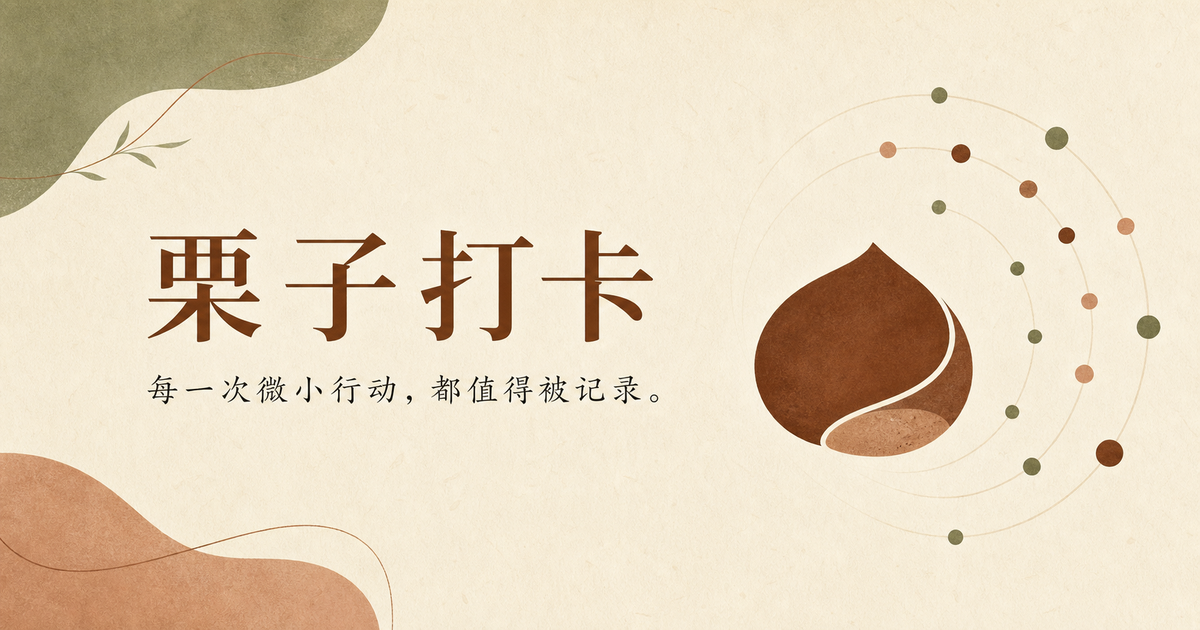
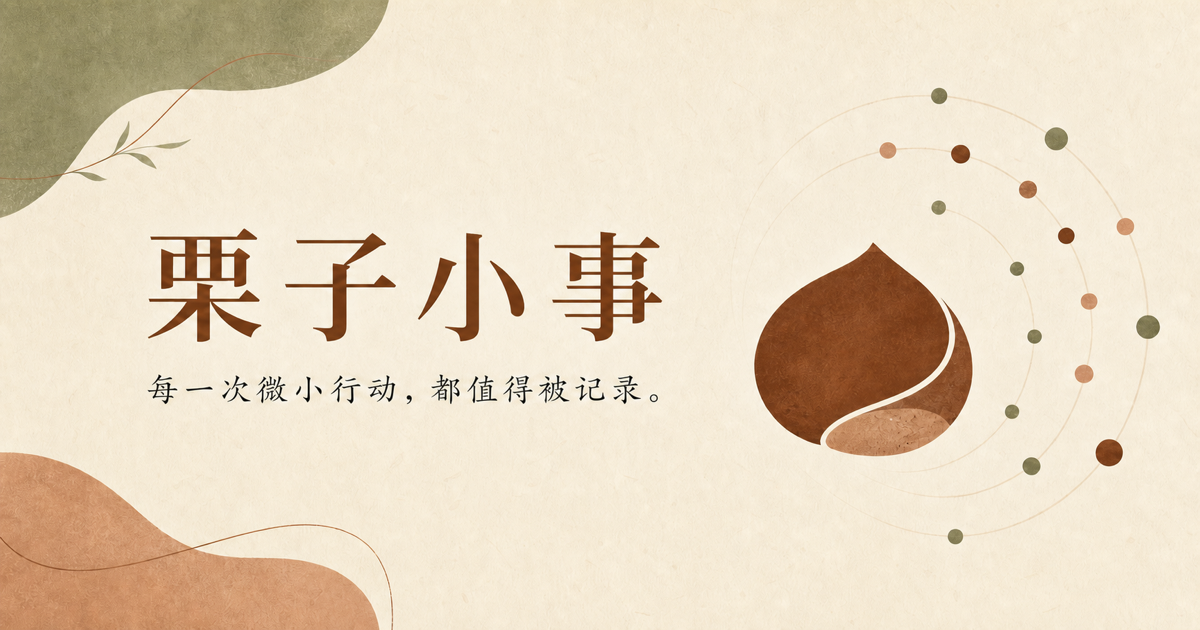
Rename product to Lizi Xiaoshi

diff --git a/app/layout.tsx b/app/layout.tsx
@@ -2,26 +2,26 @@ import type { Metadata, Viewport } from "next";
 import "./globals.css";
 
 export const metadata: Metadata = {
-  title: "栗子打卡",
+  title: "栗子小事",
   description: "记录微小行动，看见长期成长。每一次微小行动，都值得被记录。",
-  applicationName: "栗子打卡",
+  applicationName: "栗子小事",
   manifest: "/manifest.webmanifest",
   openGraph: {
-    title: "栗子打卡",
+    title: "栗子小事",
     description: "每一次微小行动，都值得被记录。",
     type: "website",
-    images: [{ url: "/og.png", width: 1200, height: 630, alt: "栗子打卡" }],
+    images: [{ url: "/og.png", width: 1200, height: 630, alt: "栗子小事" }],
   },
   twitter: {
     card: "summary_large_image",
-    title: "栗子打卡",
+    title: "栗子小事",
     description: "每一次微小行动，都值得被记录。",
     images: ["/og.png"],
   },
   appleWebApp: {
     capable: true,
     statusBarStyle: "default",
-    title: "栗子打卡",
+    title: "栗子小事",
   },
   icons: {
     icon: [

diff --git a/app/check-in-app.tsx b/app/check-in-app.tsx
@@ -443,7 +443,7 @@ export function CheckInApp() {
         <header className="app-header">
           <button className="wordmark" type="button" onClick={() => changeTab("today")}>
             <span className="brand-seed" aria-hidden="true">栗</span>
-            <strong>栗子打卡</strong>
+            <strong>栗子小事</strong>
           </button>
         </header>
 
@@ -751,7 +751,7 @@ export function CheckInApp() {
                   <span className="philosophy-title">
                     <i aria-hidden="true">○</i>
                     <span>
-                      <strong>关于栗子打卡</strong>
+                      <strong>关于栗子小事</strong>
                       <small>产品理念与记录原则</small>
                     </span>
                   </span>

diff --git a/public/sw.js b/public/sw.js
@@ -1,4 +1,4 @@
-const CACHE_NAME = "lizi-growth-v16";
+const CACHE_NAME = "lizi-growth-v17";
 const APP_SHELL = ["/", "/manifest.webmanifest", "/icon-192.png", "/icon-512.png", "/og.png"];
 
 self.addEventListener("install", (event) => {
